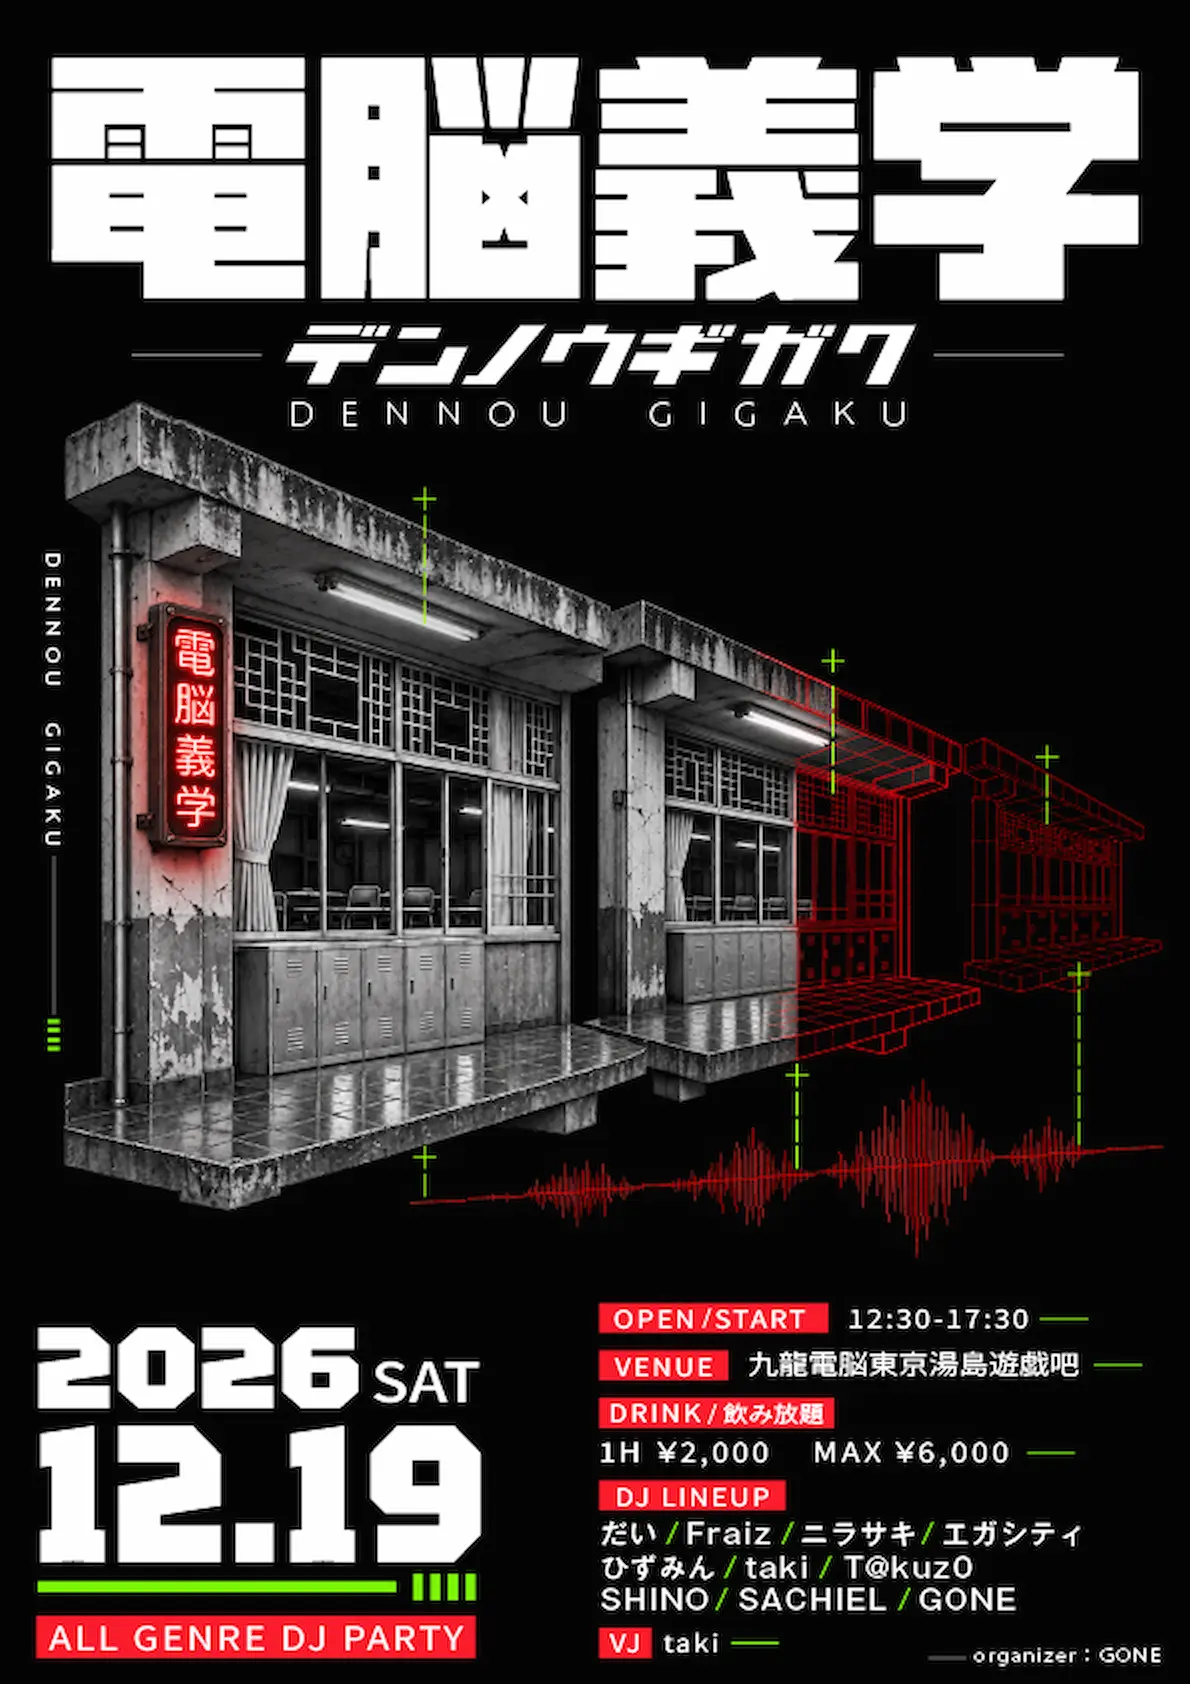
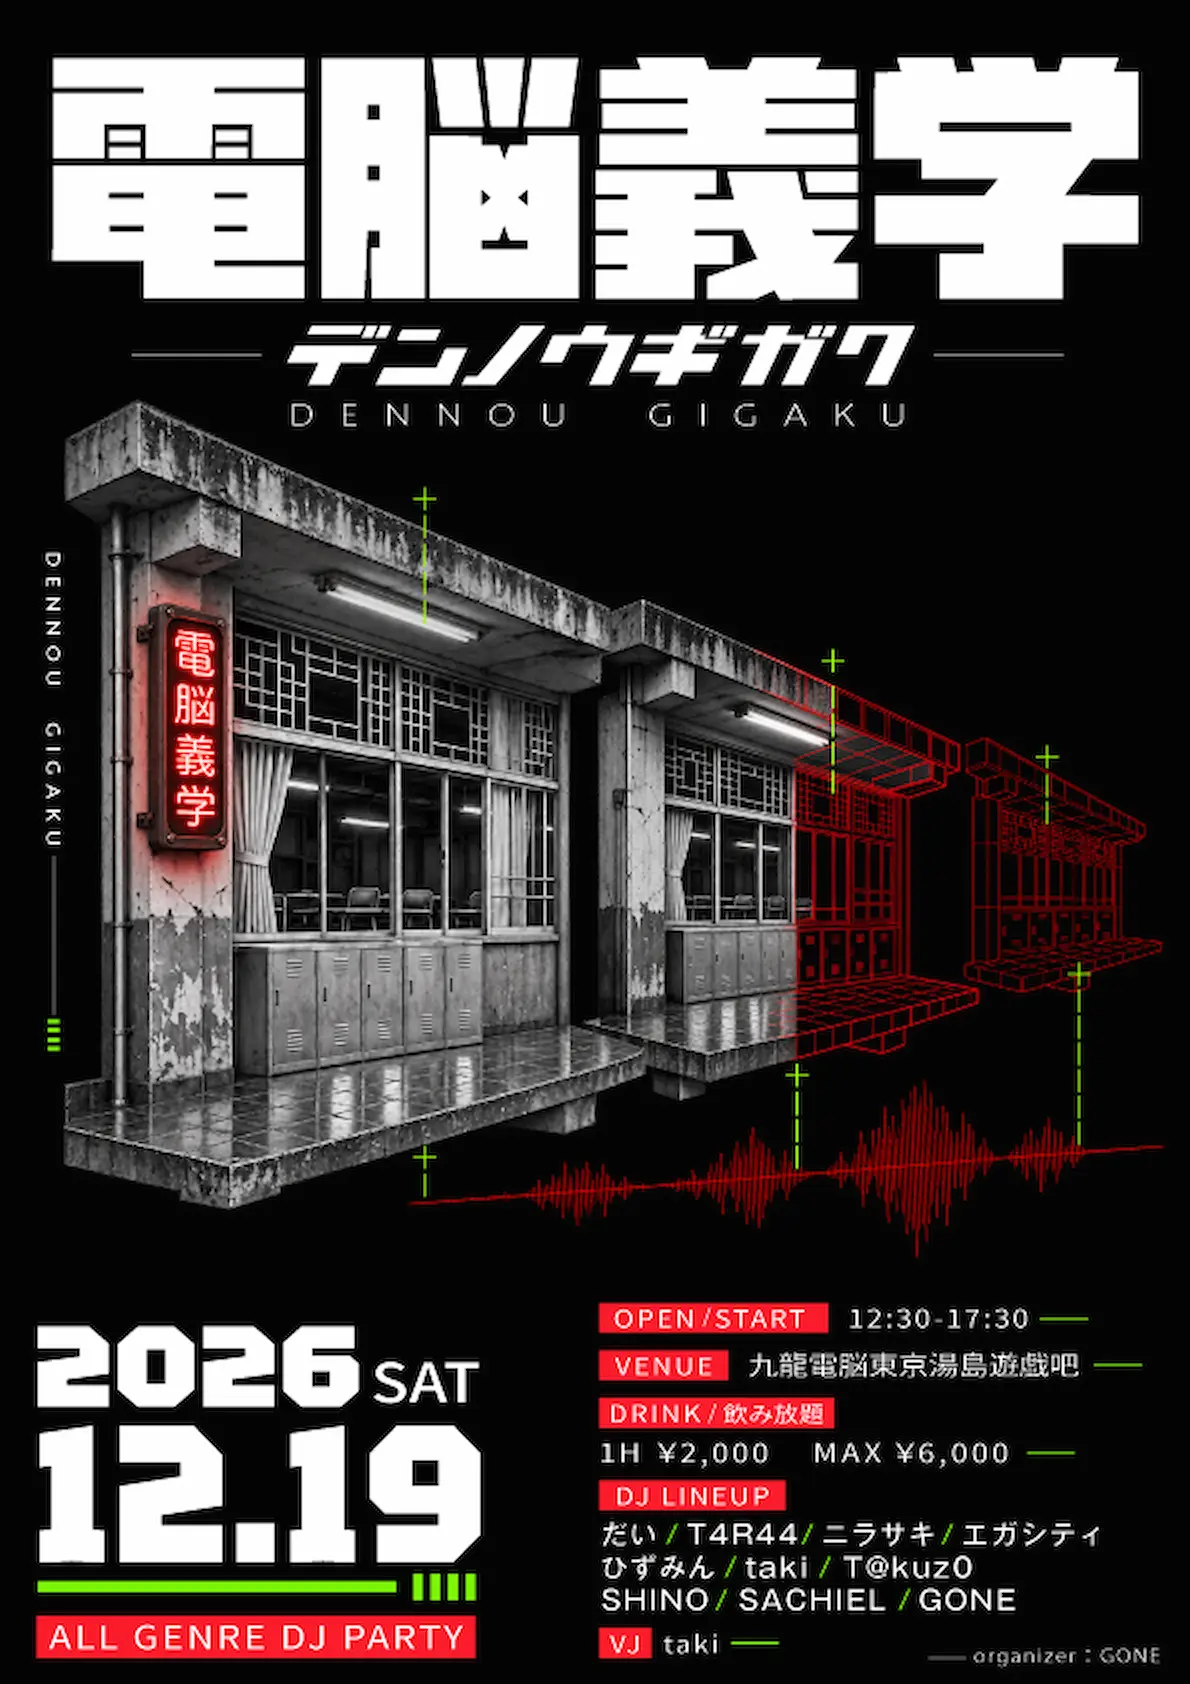
soundcloudプレイヤーを削除し、出演者を調整した

diff --git a/assets/style.css b/assets/style.css
@@ -3,7 +3,6 @@
   --white: #fff;
   --bg: #050705;
   --panel: #090c09;
-  --panel2: #0d100d;
   --ink: #f2f4f2;
   --muted: #9ba49b;
   --text-sub: #bbc2bb;
@@ -20,10 +19,6 @@
   /* ===== Glass（固定ヘッダーの半透明背景） ===== */
   --glass-bg: rgba(5, 7, 5, 0.82);
   --glass-blur: blur(14px);
-
-  /* ===== Player（固定プレイヤーの透過背景） ===== */
-  --player-bg: rgba(5, 7, 5, 0);
-  --player-blur: blur(10px);
 
   /* ===== Layout ===== */
   --max: 1180px;
@@ -272,33 +267,6 @@ body:has(.image-modal[open]) {
   &:hover {
     border-color: var(--green);
   }
-}
-
-/* ===== SoundCloud Player ===== */
-.sc-player {
-  position: fixed;
-  right: 20px;
-  bottom: 20px;
-  z-index: 70;
-  width: min(650px, calc(100% - 40px));
-  padding: 0 16px 16px;
-  border: 1px solid var(--green);
-  border-bottom-width: 4px;
-  background: var(--player-bg);
-  backdrop-filter: var(--player-blur);
-  box-shadow: var(--shadow-g);
-
-  iframe {
-    display: block;
-    width: 100%;
-    height: 166px;
-    border: 0;
-  }
-}
-
-.sc-player-title {
-  padding: 8px 0;
-  line-height: 1.4;
 }
 
 /* ===== Layout ===== */
@@ -1125,18 +1093,6 @@ header {
     color: var(--text-sub);
   }
 
-  .goods-coming {
-    display: inline-block;
-    margin-top: 12px;
-    padding: 4px 8px;
-    border: 1px solid var(--muted);
-    color: var(--muted);
-    font-family: var(--font-mono);
-    font-weight: 800;
-    font-size: var(--fs-xs);
-    letter-spacing: 0.1em;
-  }
-
   .visitor-gift {
     display: grid;
     grid-template-columns: 1fr 360px;
@@ -1206,8 +1162,7 @@ header {
 /* ===== Footer ===== */
 footer {
   border-top: 1px solid rgba(38, 255, 25, 0.14);
-  /* 固定プレイヤーにフッターが隠れないよう、プレイヤーの高さ分の余白を足す */
-  padding: 38px 0 calc(52px + 246px);
+  padding: 38px 0 52px;
 }
 
 .footer-grid {
@@ -1410,13 +1365,5 @@ footer {
 
   .footer-code {
     margin-top: 18px;
-  }
-
-  .sc-player {
-    right: 0;
-    bottom: 0;
-    left: 0;
-    width: auto;
-    box-shadow: none;
   }
 }

diff --git a/index.html b/index.html
@@ -81,7 +81,7 @@
               <dt>ADDRESS</dt>
               <dd>東京都文京区湯島3丁目42-8</dd>
               <dt>LINEUP</dt>
-              <dd>だい / Fraiz / ニラサキ / エガシティ / ひずみん / taki / T@kuz0 / SHINO / SACHIEL / GONE / VJ:taki</dd>
+              <dd>だい / T4R44 / ニラサキ / エガシティ / ひずみん / taki / T@kuz0 / SHINO / SACHIEL / GONE / VJ:taki</dd>
             </dl>
           </div>
         </article>
@@ -152,7 +152,7 @@
               </div>
               <div class="lineup-block">
                 <div class="lineup-title">LINEUP</div>
-                <p class="lineup">だい / Fraiz / ニラサキ / エガシティ / ひずみん / taki / T@kuz0 / SHINO / SACHIEL / GONE / VJ:taki
+                <p class="lineup">だい / T4R44 / ニラサキ / エガシティ / ひずみん / taki / T@kuz0 / SHINO / SACHIEL / GONE / VJ:taki
                 </p>
               </div>
             </div>
@@ -542,12 +542,6 @@
       </div>
     </section>
   </main>
-
-  <aside class="sc-player" aria-label="SoundCloud プレイヤー">
-    <div class="eyebrow sc-player-title">SPECIAL SONG</div>
-    <iframe title="SoundCloud プレイヤー" allow="autoplay; encrypted-media" loading="lazy"
-      src="https://w.soundcloud.com/player/?url=https%3A%2F%2Fapi.soundcloud.com%2Ftracks%2F2404014519&color=%23bbc2bb&auto_play=false&hide_related=true&show_comments=false&show_artwork=true&show_user=true&show_reposts=false&show_teaser=false&visual=true"></iframe>
-  </aside>
 
   <dialog class="image-modal">
     <button class="image-modal-close" type="button" aria-label="閉じる"></button>
